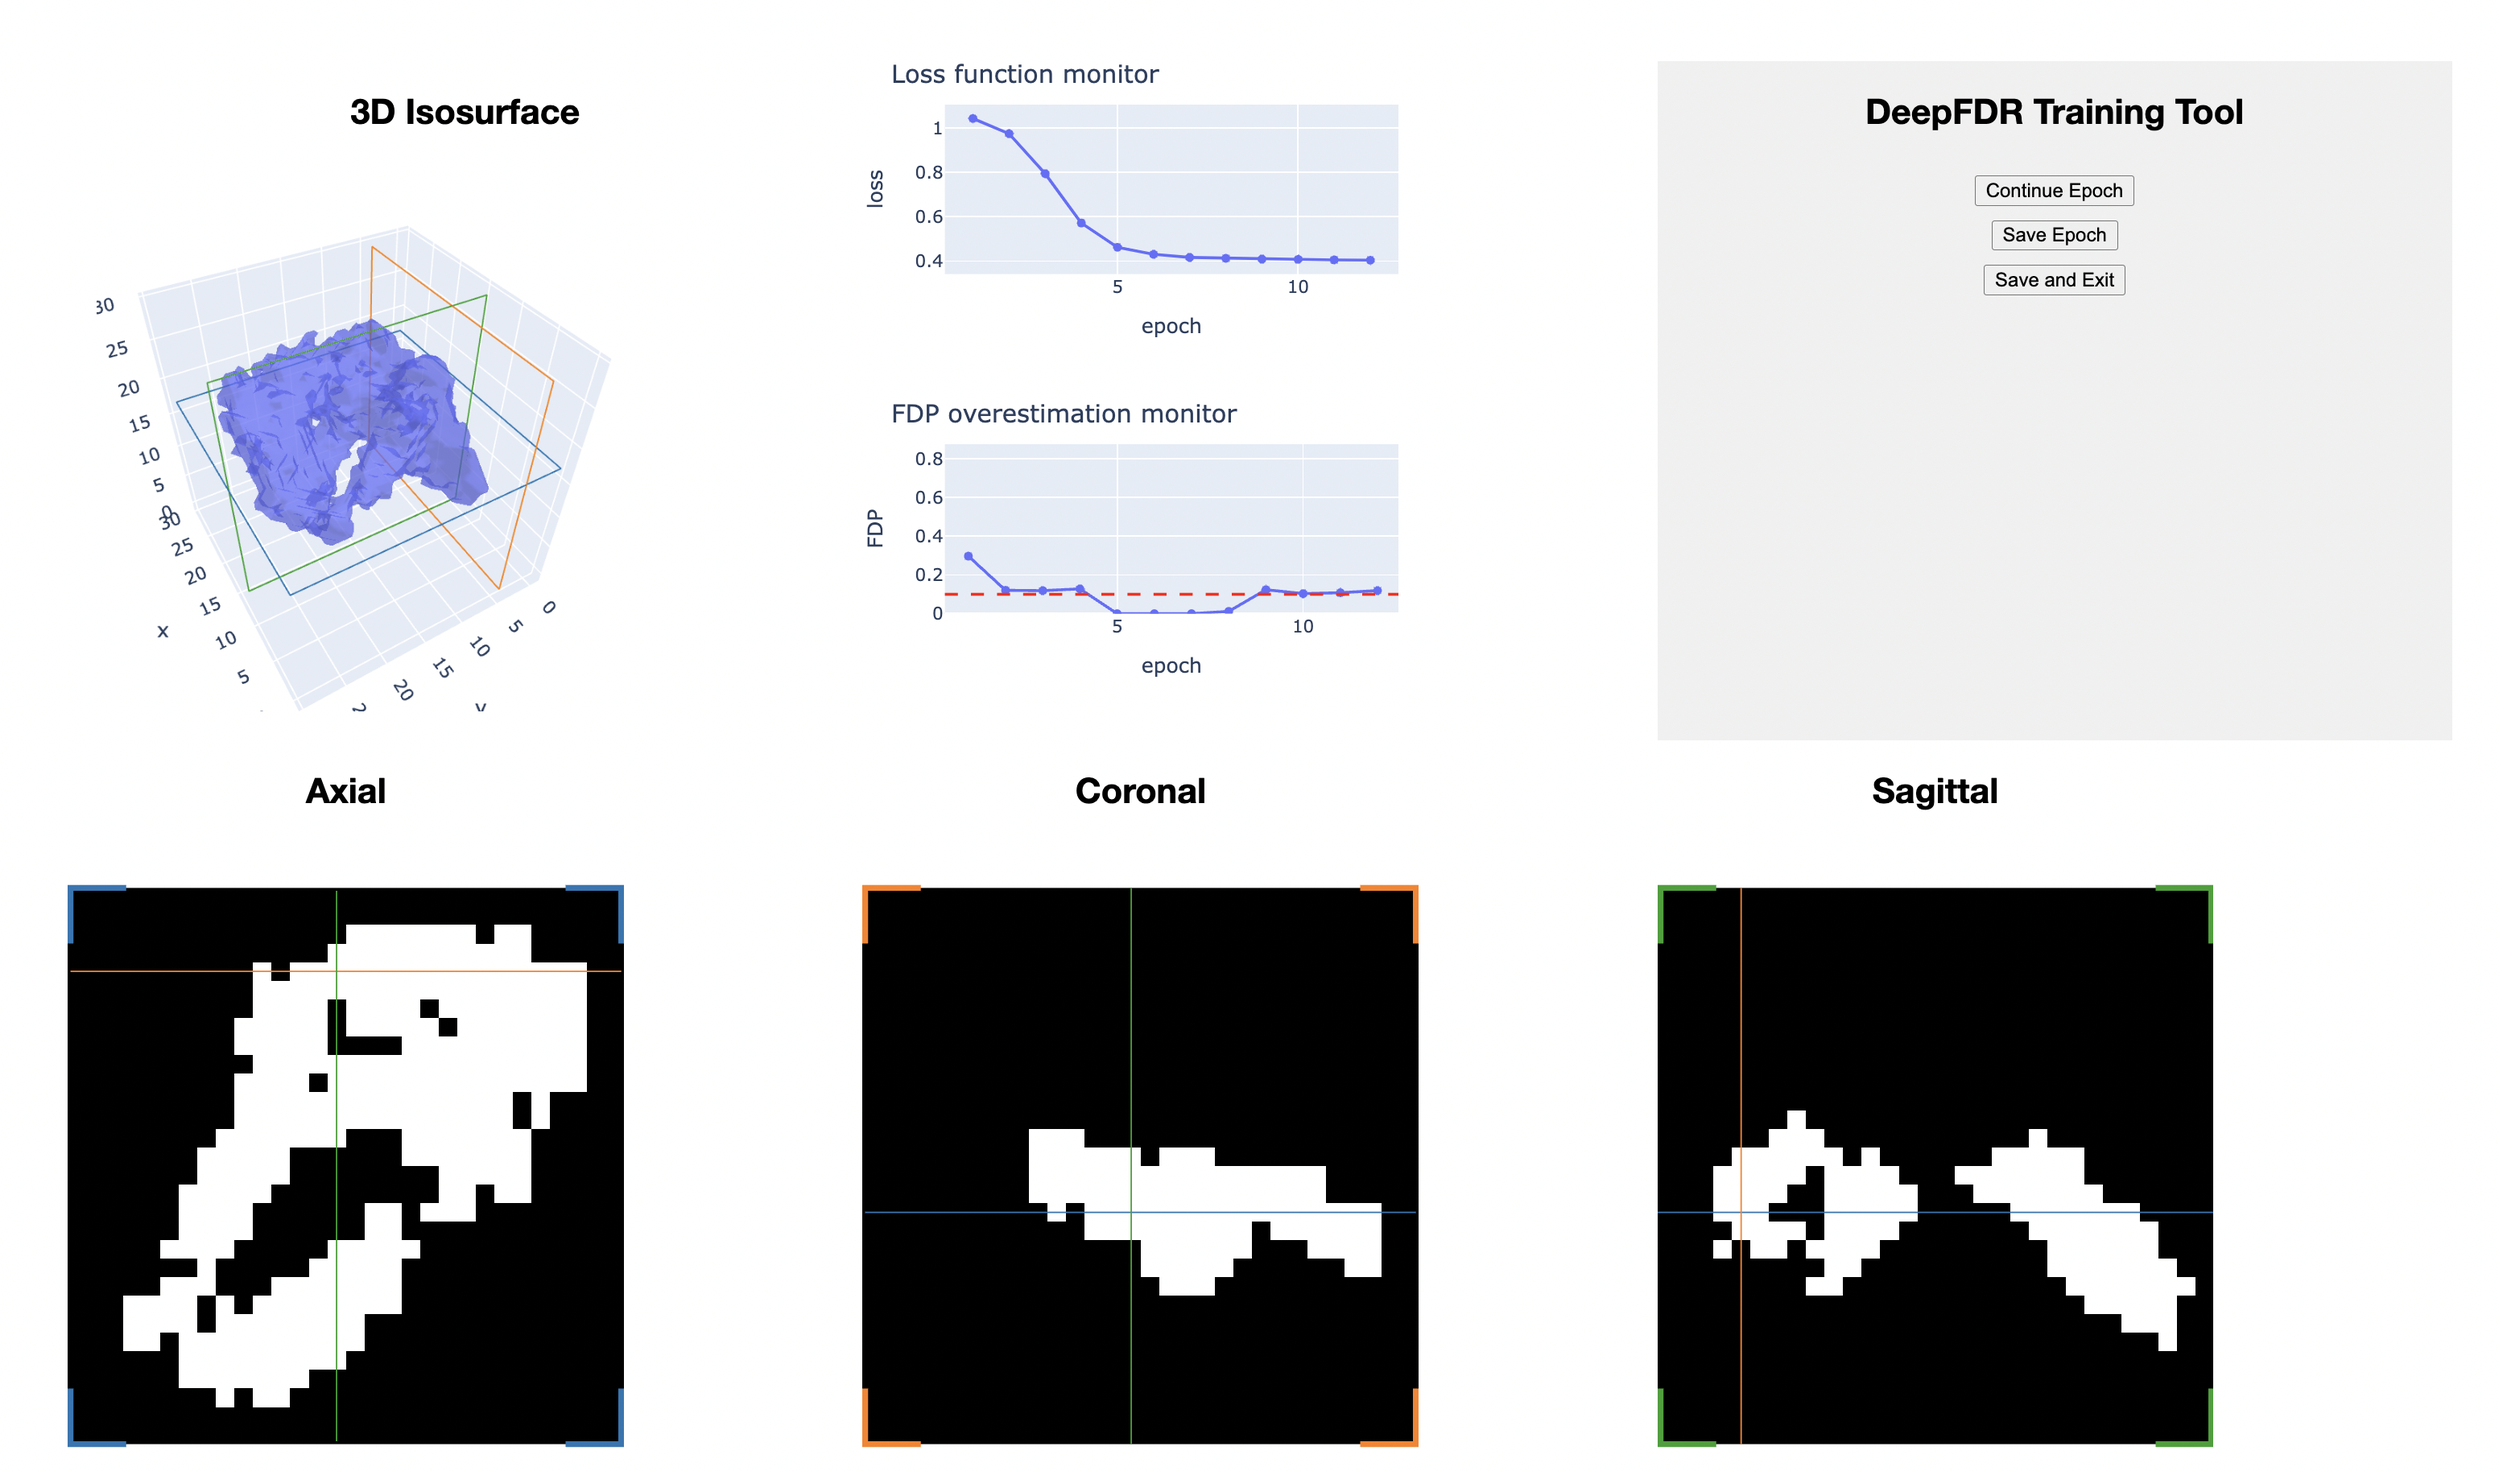
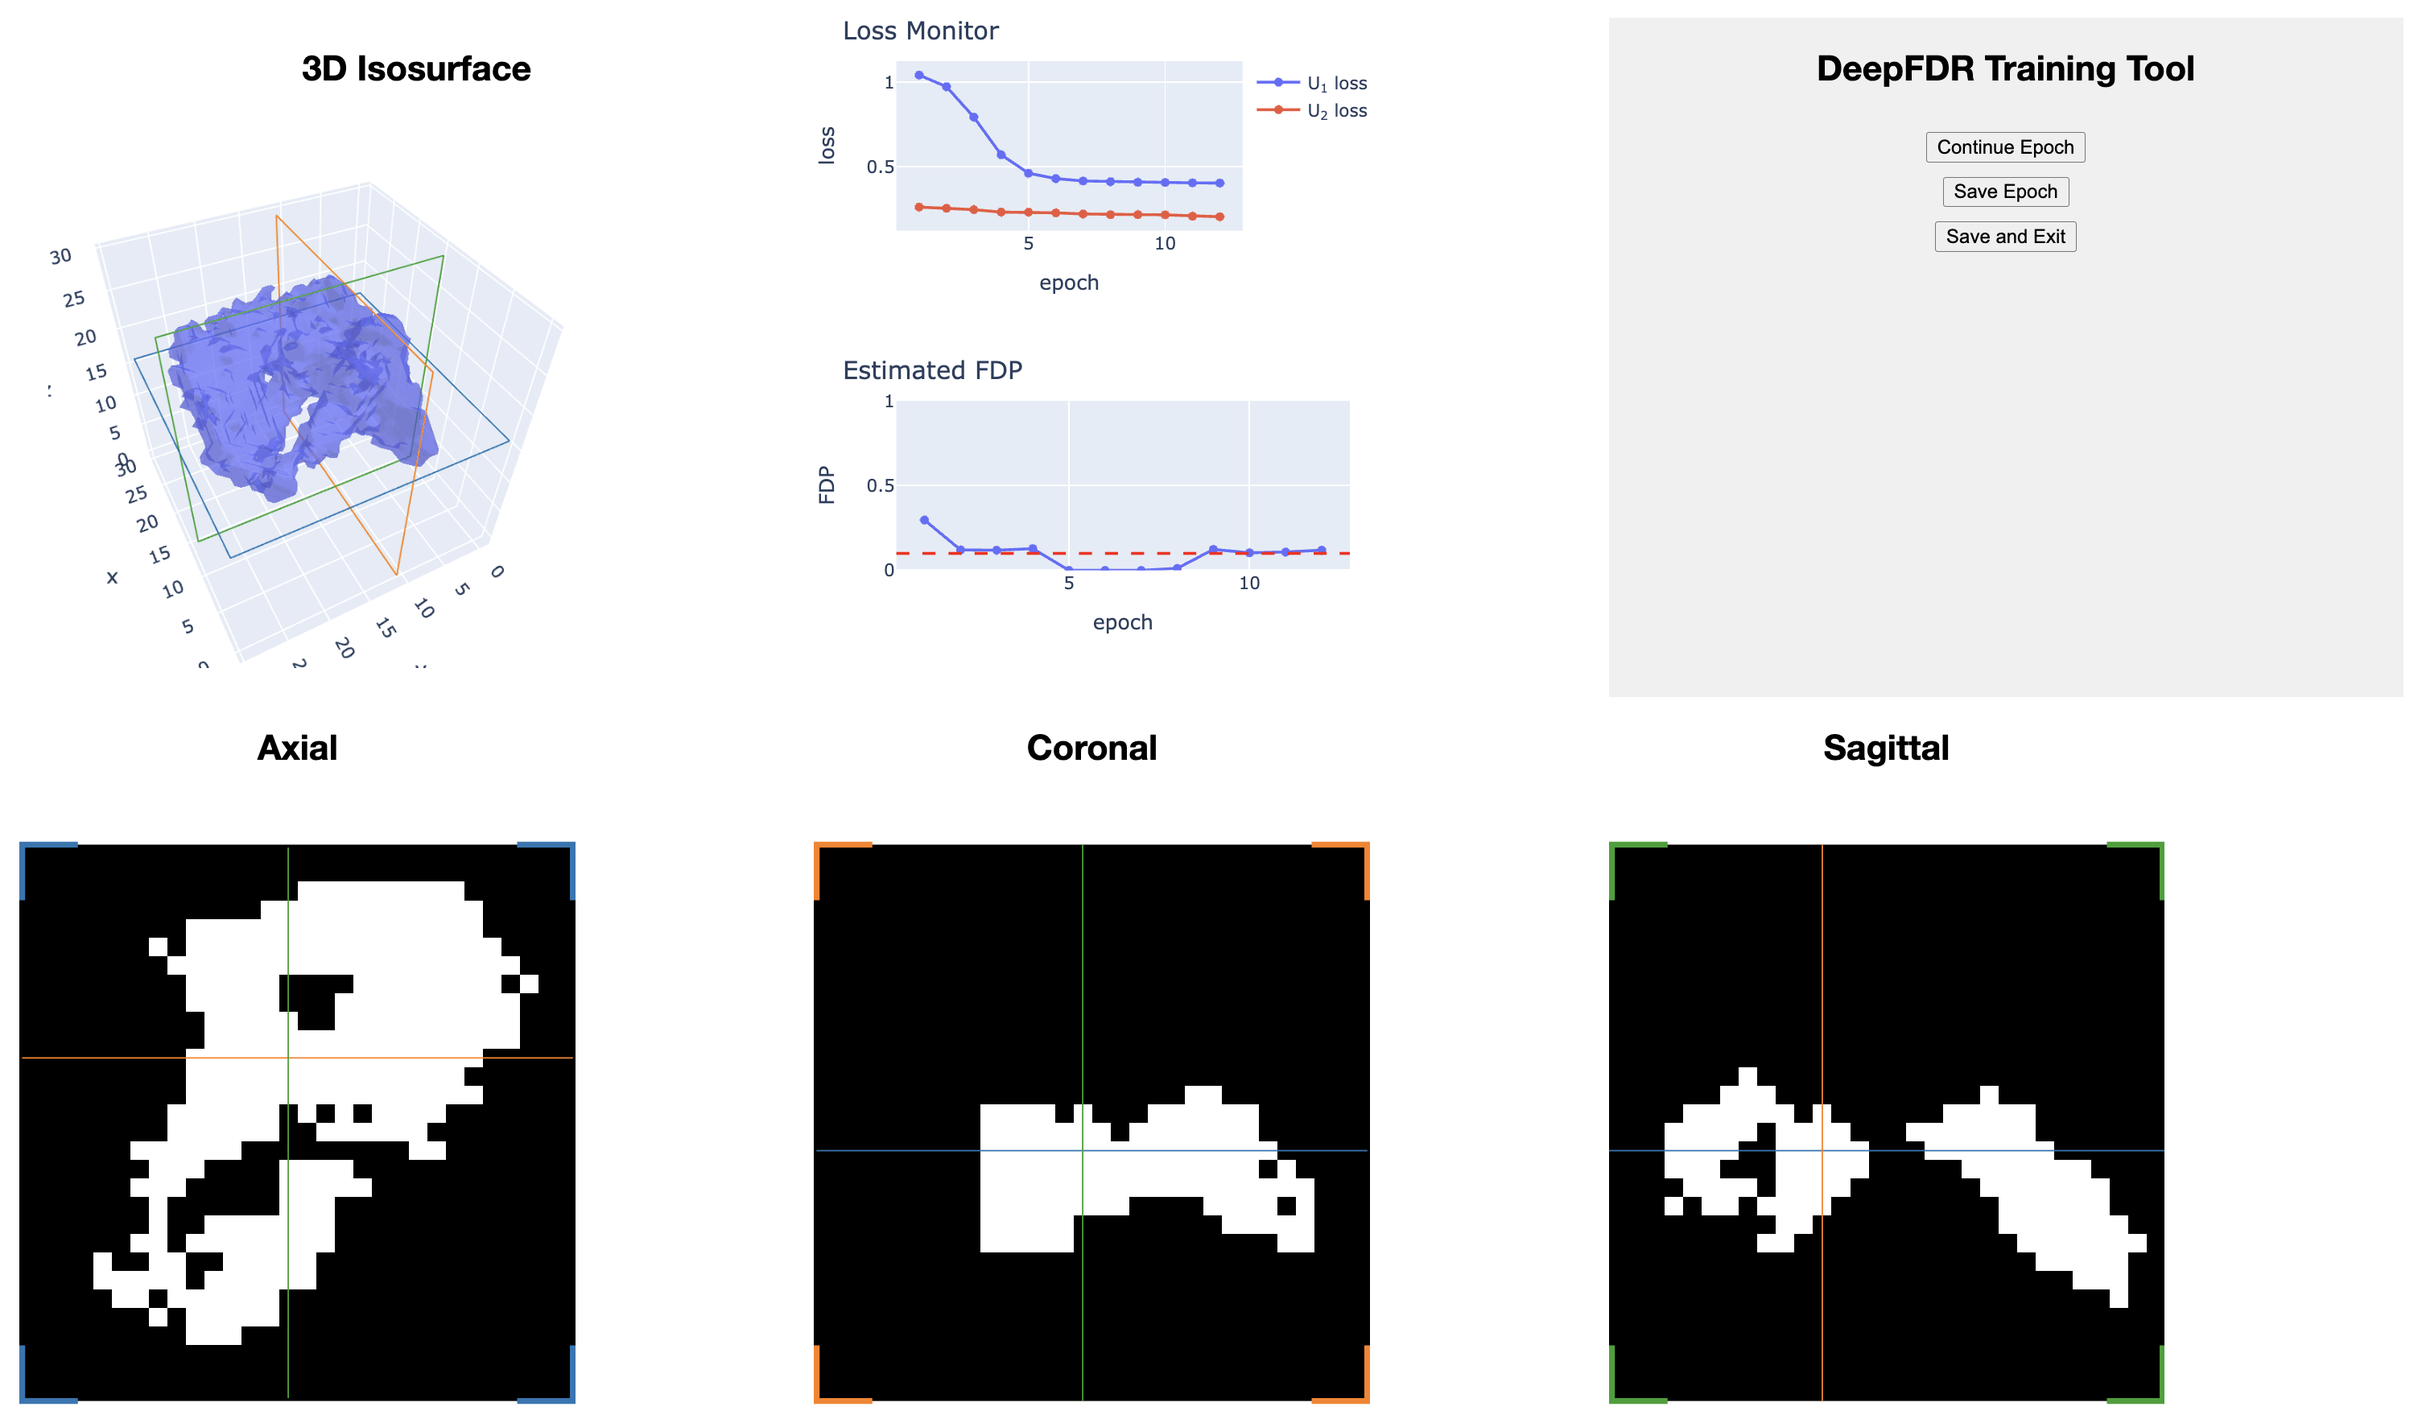
updating gui to include both U1 and U2 loss

diff --git a/src/DeepFDR/train_gui.py b/src/DeepFDR/train_gui.py
@@ -28,15 +28,15 @@ import time
 
 def setup_dash():
     # Read volumes and create slicer objects
-    vol = np.random.rand(30,30,30)
+    vol = np.random.rand(Config.inputsize[0],Config.inputsize[1],Config.inputsize[2])
 
     slicer0 = VolumeSlicer(app, vol, axis=0)
     slicer1 = VolumeSlicer(app, vol, axis=1)
     slicer2 = VolumeSlicer(app, vol, axis=2)
 
-    your_2d_plot1_figure = px.line(x=[None], y=[None], title="Loss function monitor", width=400, height=200, markers=True
+    your_2d_plot1_figure = px.line(x=[None], y=[None], title="Loss Monitor", width=400, height=200, markers=True
                 , labels={'x':'epoch', 'y':'loss'})
-    your_2d_plot2_figure = px.line(x=[None], y=[None], title="FDP overestimation monitor", width=400, height=200, markers=True
+    your_2d_plot2_figure = px.line(x=[None], y=[None], title="Estimated FDP", width=400, height=200, markers=True
         , labels={'x':'epoch', 'y':'FDP'})
     your_2d_plot2_figure.add_hline(y=Config.threshold, line_dash="dash", line_color="red")
 
@@ -305,14 +305,41 @@ def setup_dash():
             if q.empty():
                 return (dash.no_update,) * 6
 
-            plot1_y = q.get_nowait()
-            plot2_y = q.get_nowait()
+            u1_loss = q.get_nowait()
+            u2_loss = q.get_nowait()
+            fdp_est = q.get_nowait()
             vol = q.get_nowait()
             vol = vol.reshape(Config.inputsize)
 
-            updated_2d_plot1_figure = px.line(x=list(range(1, len(plot1_y) + 1)), y=plot1_y, title="Loss function monitor", width=400, height=200, markers=True
-                                    , labels={'x':'epoch', 'y':'loss'})
-            updated_2d_plot2_figure = px.line(x=list(range(1, len(plot1_y) + 1)), y=plot2_y, title="FDP overestimation monitor", width=400, height=200, markers=True
+            updated_2d_plot1_figure = go.Figure()
+            updated_2d_plot1_figure.add_trace(
+                go.Scatter(
+                    x=list(range(1, len(u1_loss) + 1)),
+                    y=u1_loss,
+                    mode='lines+markers',  # or 'lines' if you don't want markers
+                    name='U<sub>1</sub> loss'
+                )
+            )
+            # append the u2 loss plot
+            updated_2d_plot1_figure.add_trace(
+                go.Scatter(
+                    x=list(range(1, len(u2_loss) + 1)), 
+                    y=u2_loss, 
+                    mode='lines+markers',  # or 'lines+markers' if you want markers
+                    name='U<sub>2</sub> loss'
+                )
+            )
+
+            # Update the layout for the figure
+            updated_2d_plot1_figure.update_layout(
+                title="Loss Monitor",
+                xaxis_title="epoch",
+                yaxis_title="loss",
+                width=400,
+                height=200
+            )
+
+            updated_2d_plot2_figure = px.line(x=list(range(1, len(u1_loss) + 1)), y=fdp_est, title="Estimated FDP", width=400, height=200, markers=True
                                     , labels={'x':'epoch', 'y':'FDP'})
             updated_2d_plot2_figure.add_hline(y=Config.threshold, line_dash="dash", line_color="red")
             updated_2d_plot2_figure.update_yaxes(range=[0, 1.0])

diff --git a/src/DeepFDR/train_gui_helper.py b/src/DeepFDR/train_gui_helper.py
@@ -177,6 +177,7 @@ def single_training(queue, continue_training_flag, save_flag, save_exit_flag, ar
 
         # Get the Queue ready
         queue.put(np.array(trainLossEnc_plot))
+        queue.put(np.array(trainLossDec_plot))
         queue.put(np.array(fdp_opt_1_plot))
         queue.put(signal_lis)
 
